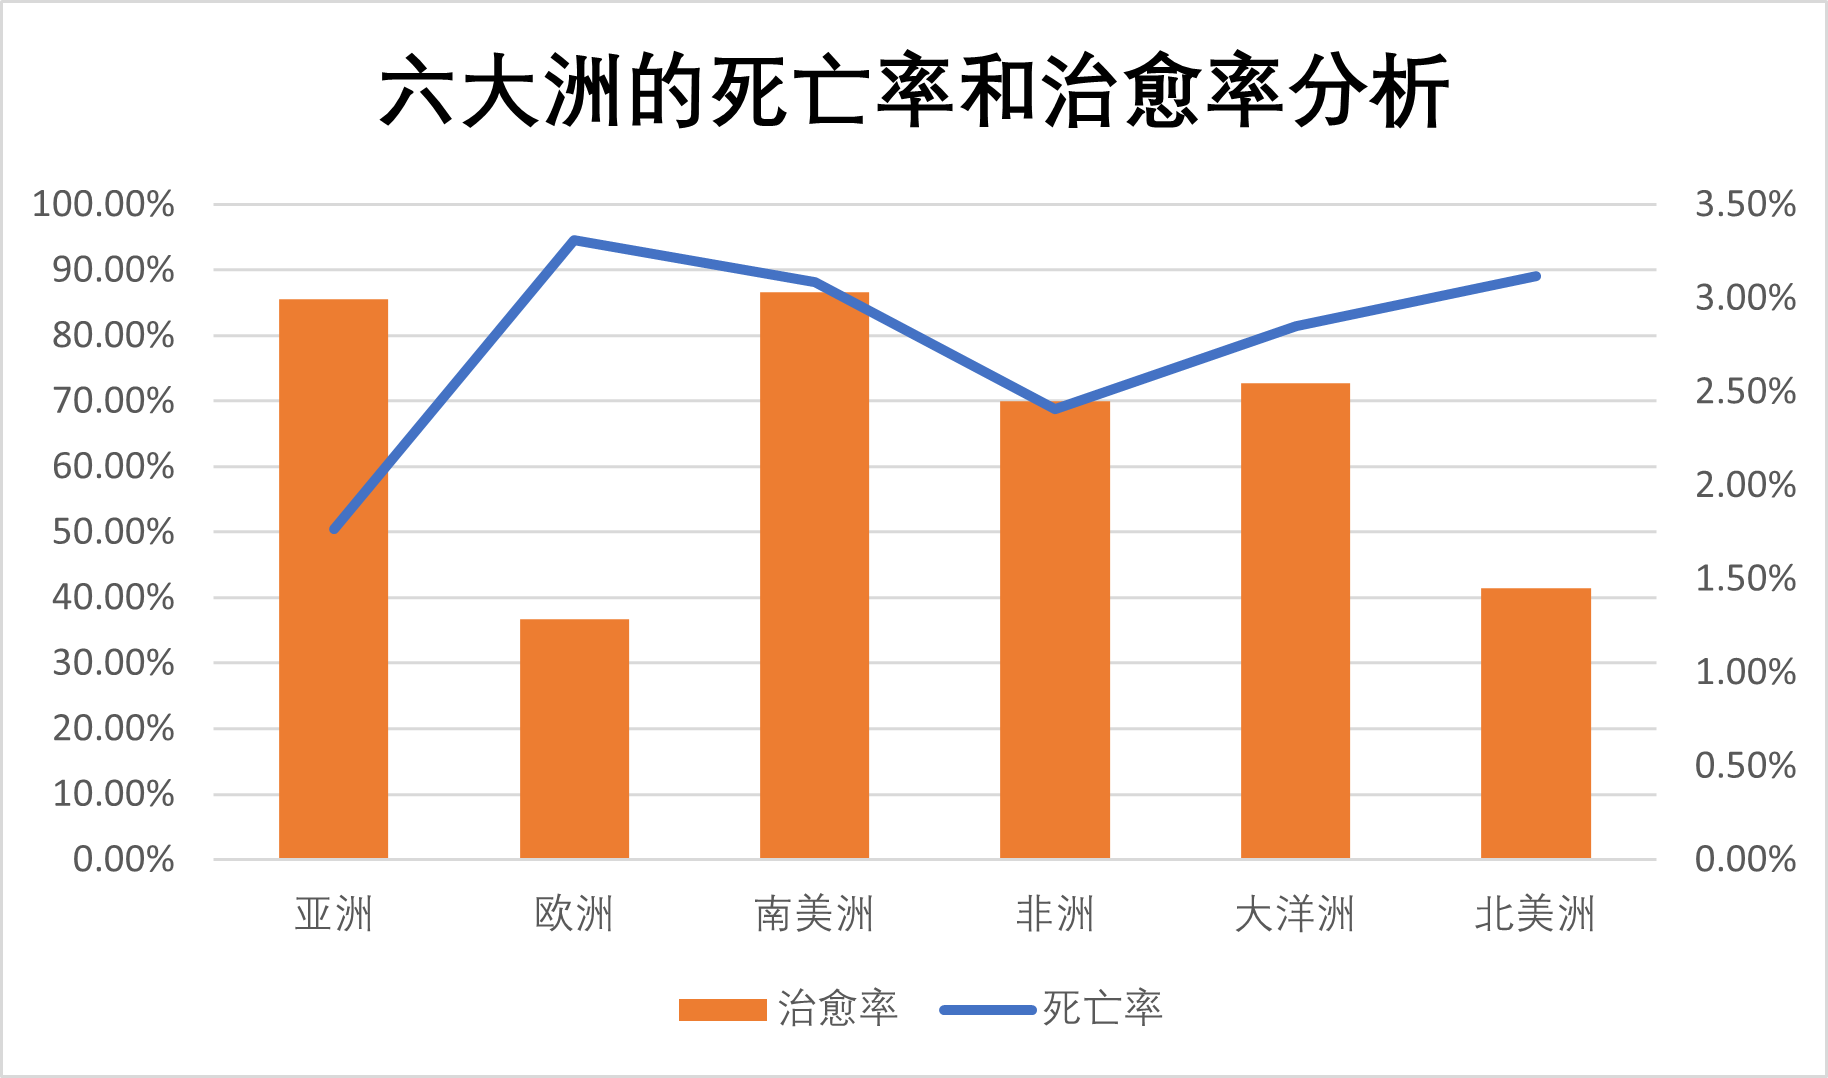
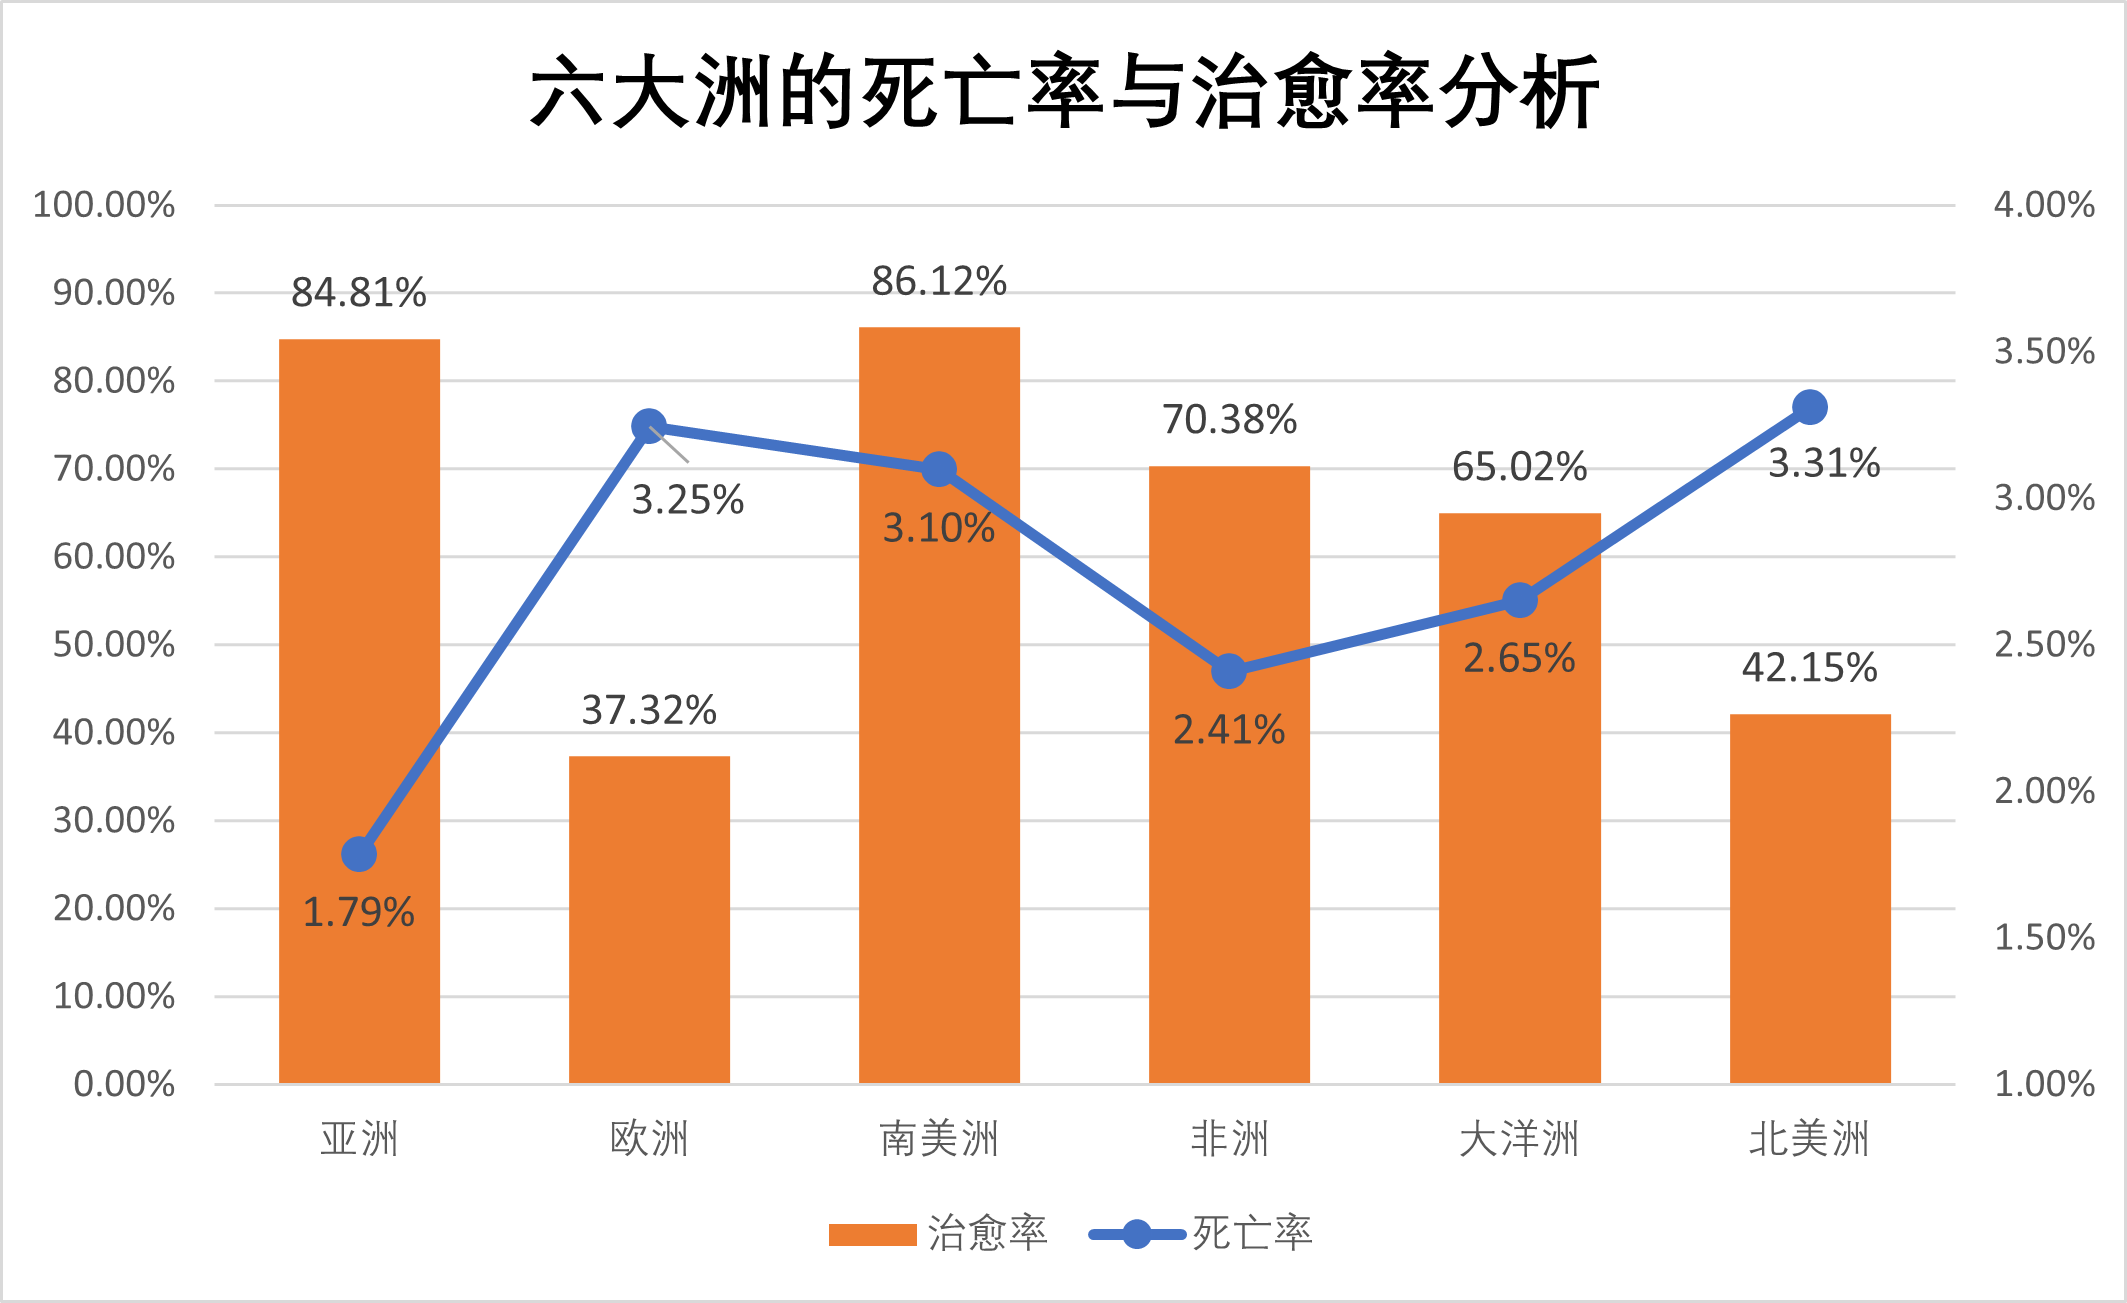
重绘了六大洲的统计分析

diff --git a/Excel-based/README.md b/Excel-based/README.md
@@ -18,7 +18,7 @@
 ## 二、数据采集和存储：
 1. 数据来源于[BlankerL/DXY-COVID-19-Data](https://github.com/BlankerL/DXY-COVID-19-Data#2019%E6%96%B0%E5%9E%8B%E5%86%A0%E7%8A%B6%E7%97%85%E6%AF%92%E7%96%AB%E6%83%85%E6%97%B6%E9%97%B4%E5%BA%8F%E5%88%97%E6%95%B0%E6%8D%AE%E4%BB%93%E5%BA%93)项目于**11月23日**推送的[Release](https://github.com/BlankerL/DXY-COVID-19-Data/releases/tag/2020.10.23)；
 2. 数据仅从丁香园公开的数据中爬虫获取并存储于csv文件中；
-3. 疫情统计起始于2020年1月22日，终止于2020年10月22日，共计19个字段，328609条记录，大小约为34.9MB。
+3. 疫情统计起始于2020年1月22日，终止于2020年10月22日，共19个字段，328609条记录，大小约为34.9MB。
 
 ## 三、数据理解和清洗：
 1. 采用数据透视表进行简单的处理和分析；
